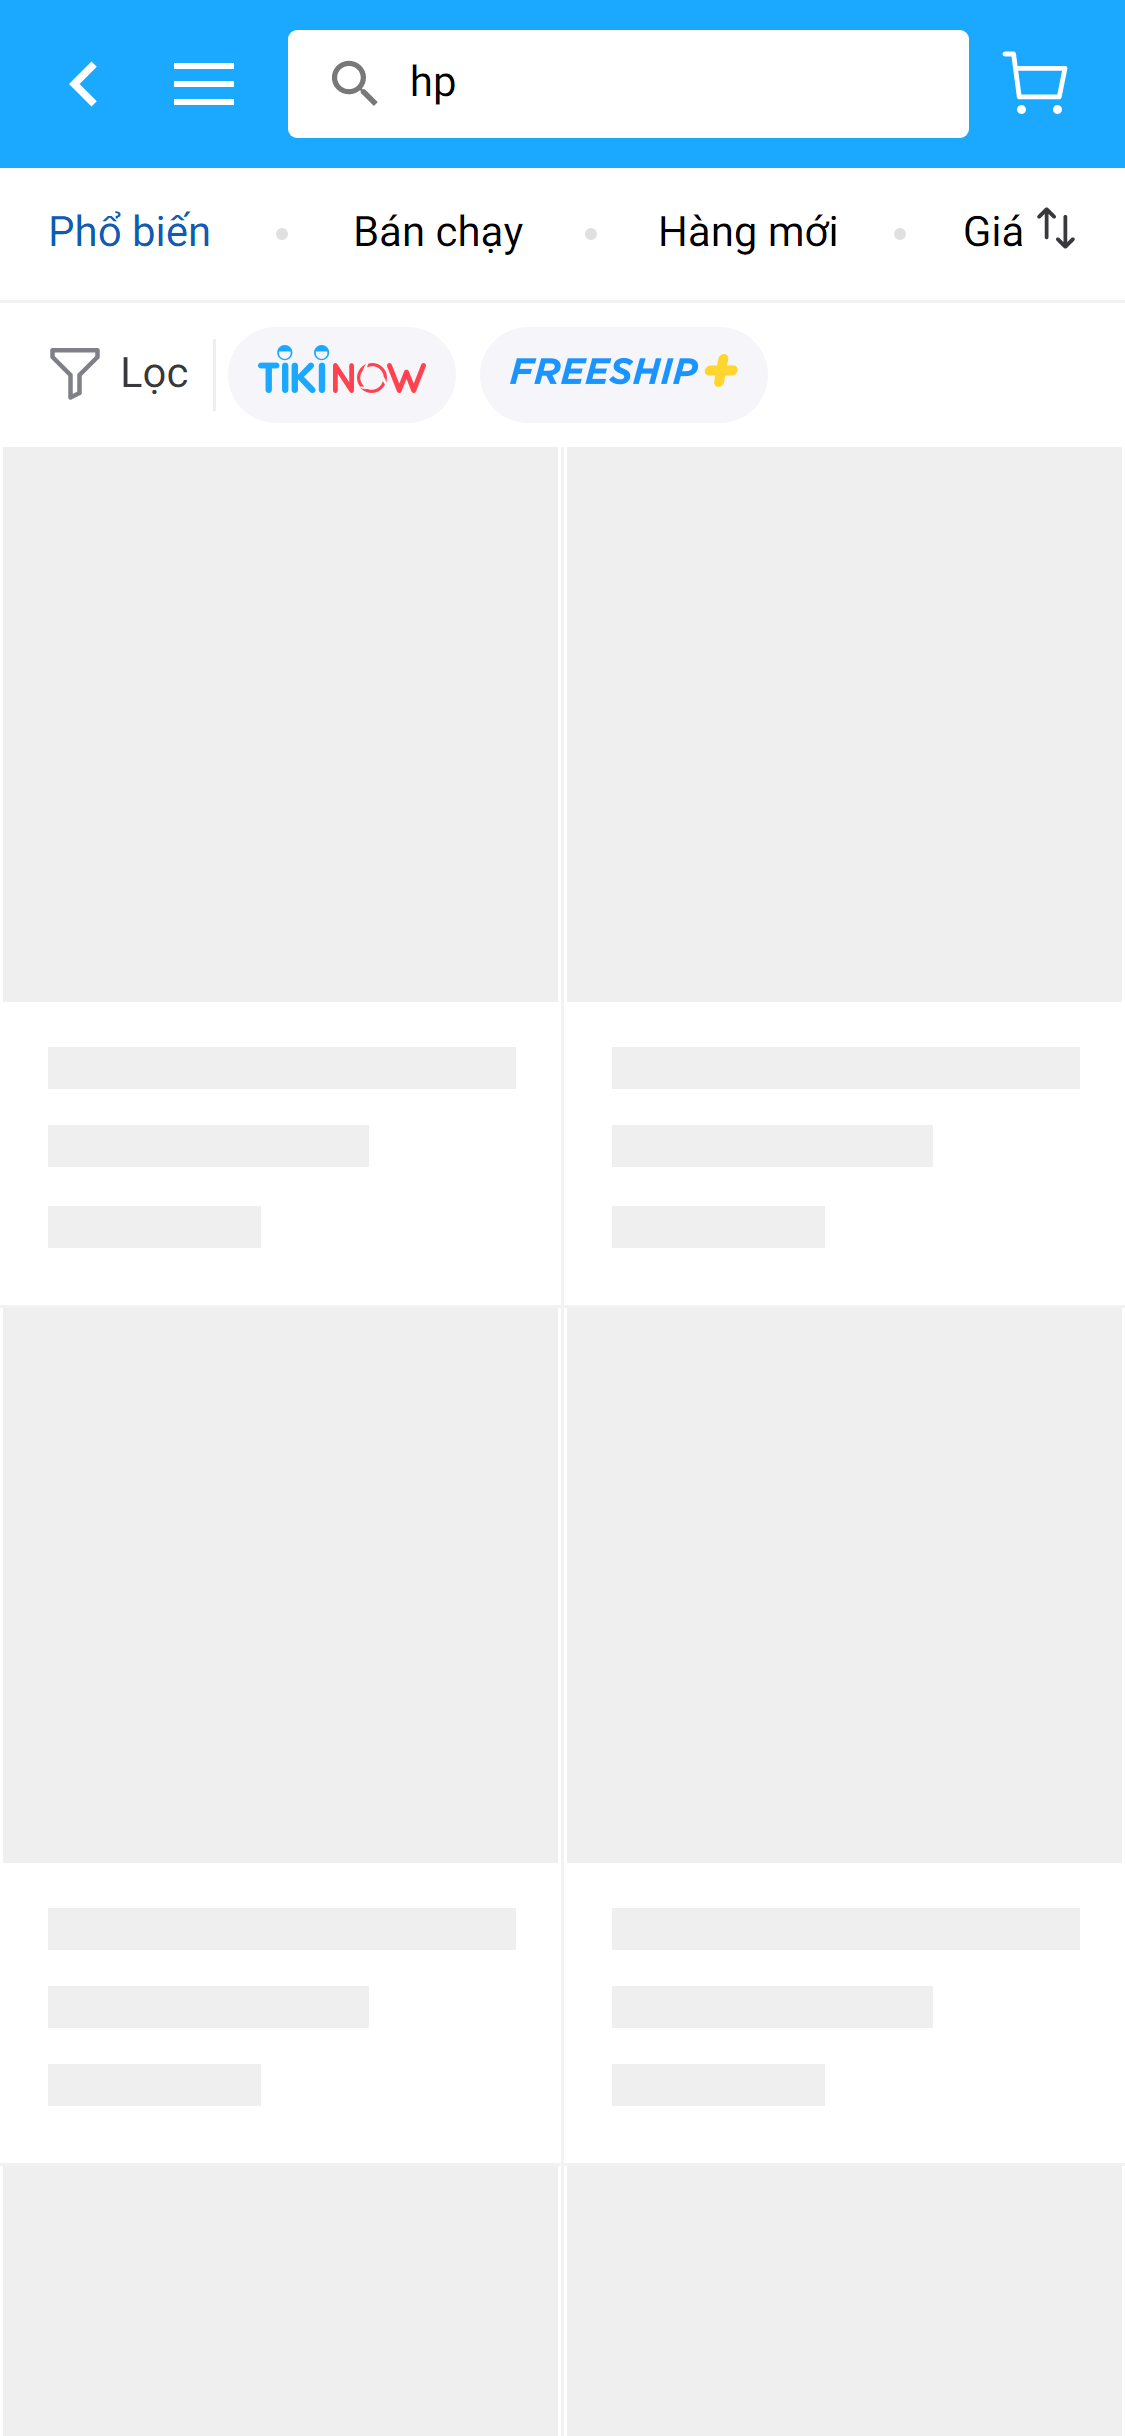
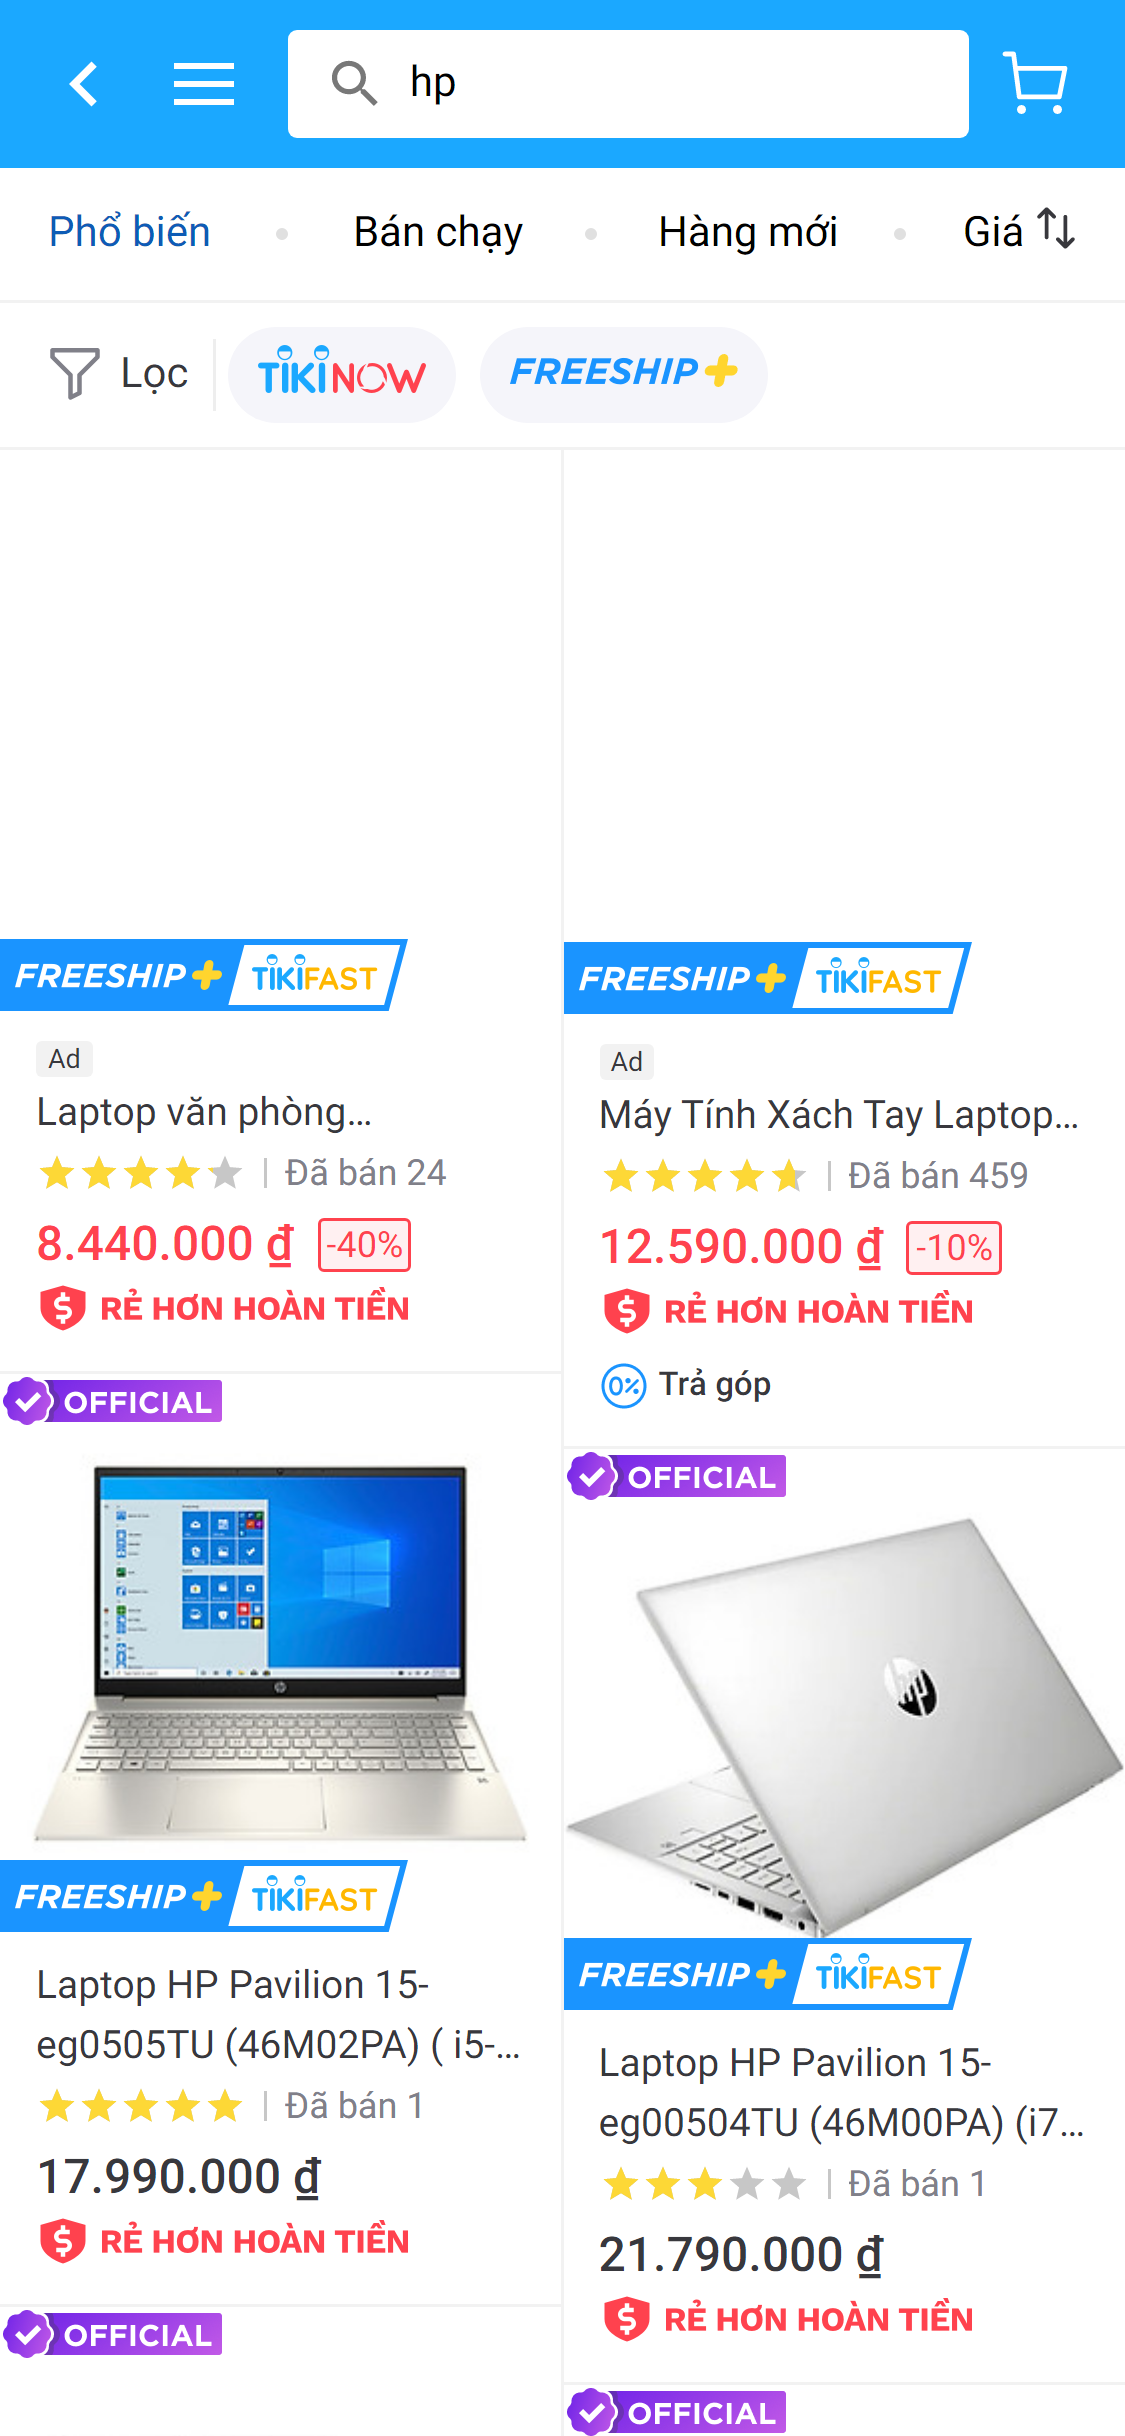
add buildpack

diff --git a/controllers/products/index.js b/controllers/products/index.js
@@ -77,15 +77,13 @@ const tikiProducts = async (req, res) => {
   const productName = req.query.product
 
   await page.goto(`https://tiki.vn/search?q=${queryString.escape(productName)}`)
-  await page.screenshot({ path: 'cherchertech-iphoneX.png' })
-  for (let i = 0; i < 1; i++) {
-    await scrollPageToBottom(page, {
-      size: 500,
-      delay: 2000,
-    })
-  }
+  // await page.screenshot({ path: 'cherchertech-iphoneX.png' })
+  await scrollPageToBottom(page, {
+    size: 500,
+    delay: 600,
+  })
+
   // await scroll(page)
-  await page.waitForTimeout(3000)
   // const datas = await getData(page)
   // // await browser.close()
   const datas = await getDataTiki(page)
